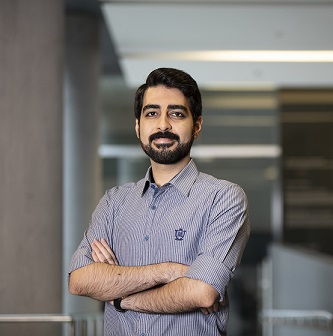
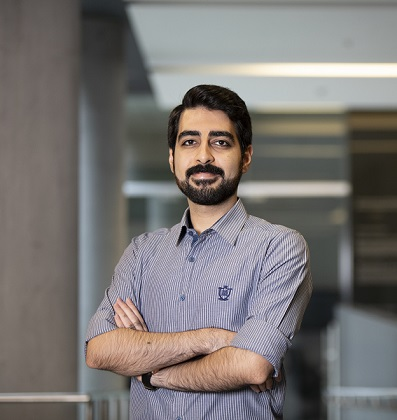
pic new

Changed region(s): [[0.1802, 0.0, 1.0, 1.0]]

diff --git a/index.html b/index.html
@@ -15,7 +15,7 @@
 <h1>Mohsen Foroughifar</h1>
 </div>
 <table class="imgtable"><tr><td>
-<img src="mohsenpic.jpg" alt="alt text" width="350px" height="300px" />&nbsp;</td>
+<img src="mohsenpic.jpg" alt="alt text" width="397px" height="420px" />&nbsp;</td>
 <td align="left"><p>PhD Student in Quantitative Marketing<br />
 <a href="https://www.rotman.utoronto.ca/" target=&ldquo;blank&rdquo;>Rotman School of Management</a> <br />
 <a href="https://www.utoronto.ca/" target=&ldquo;blank&rdquo;>University of Toronto</a></p>
